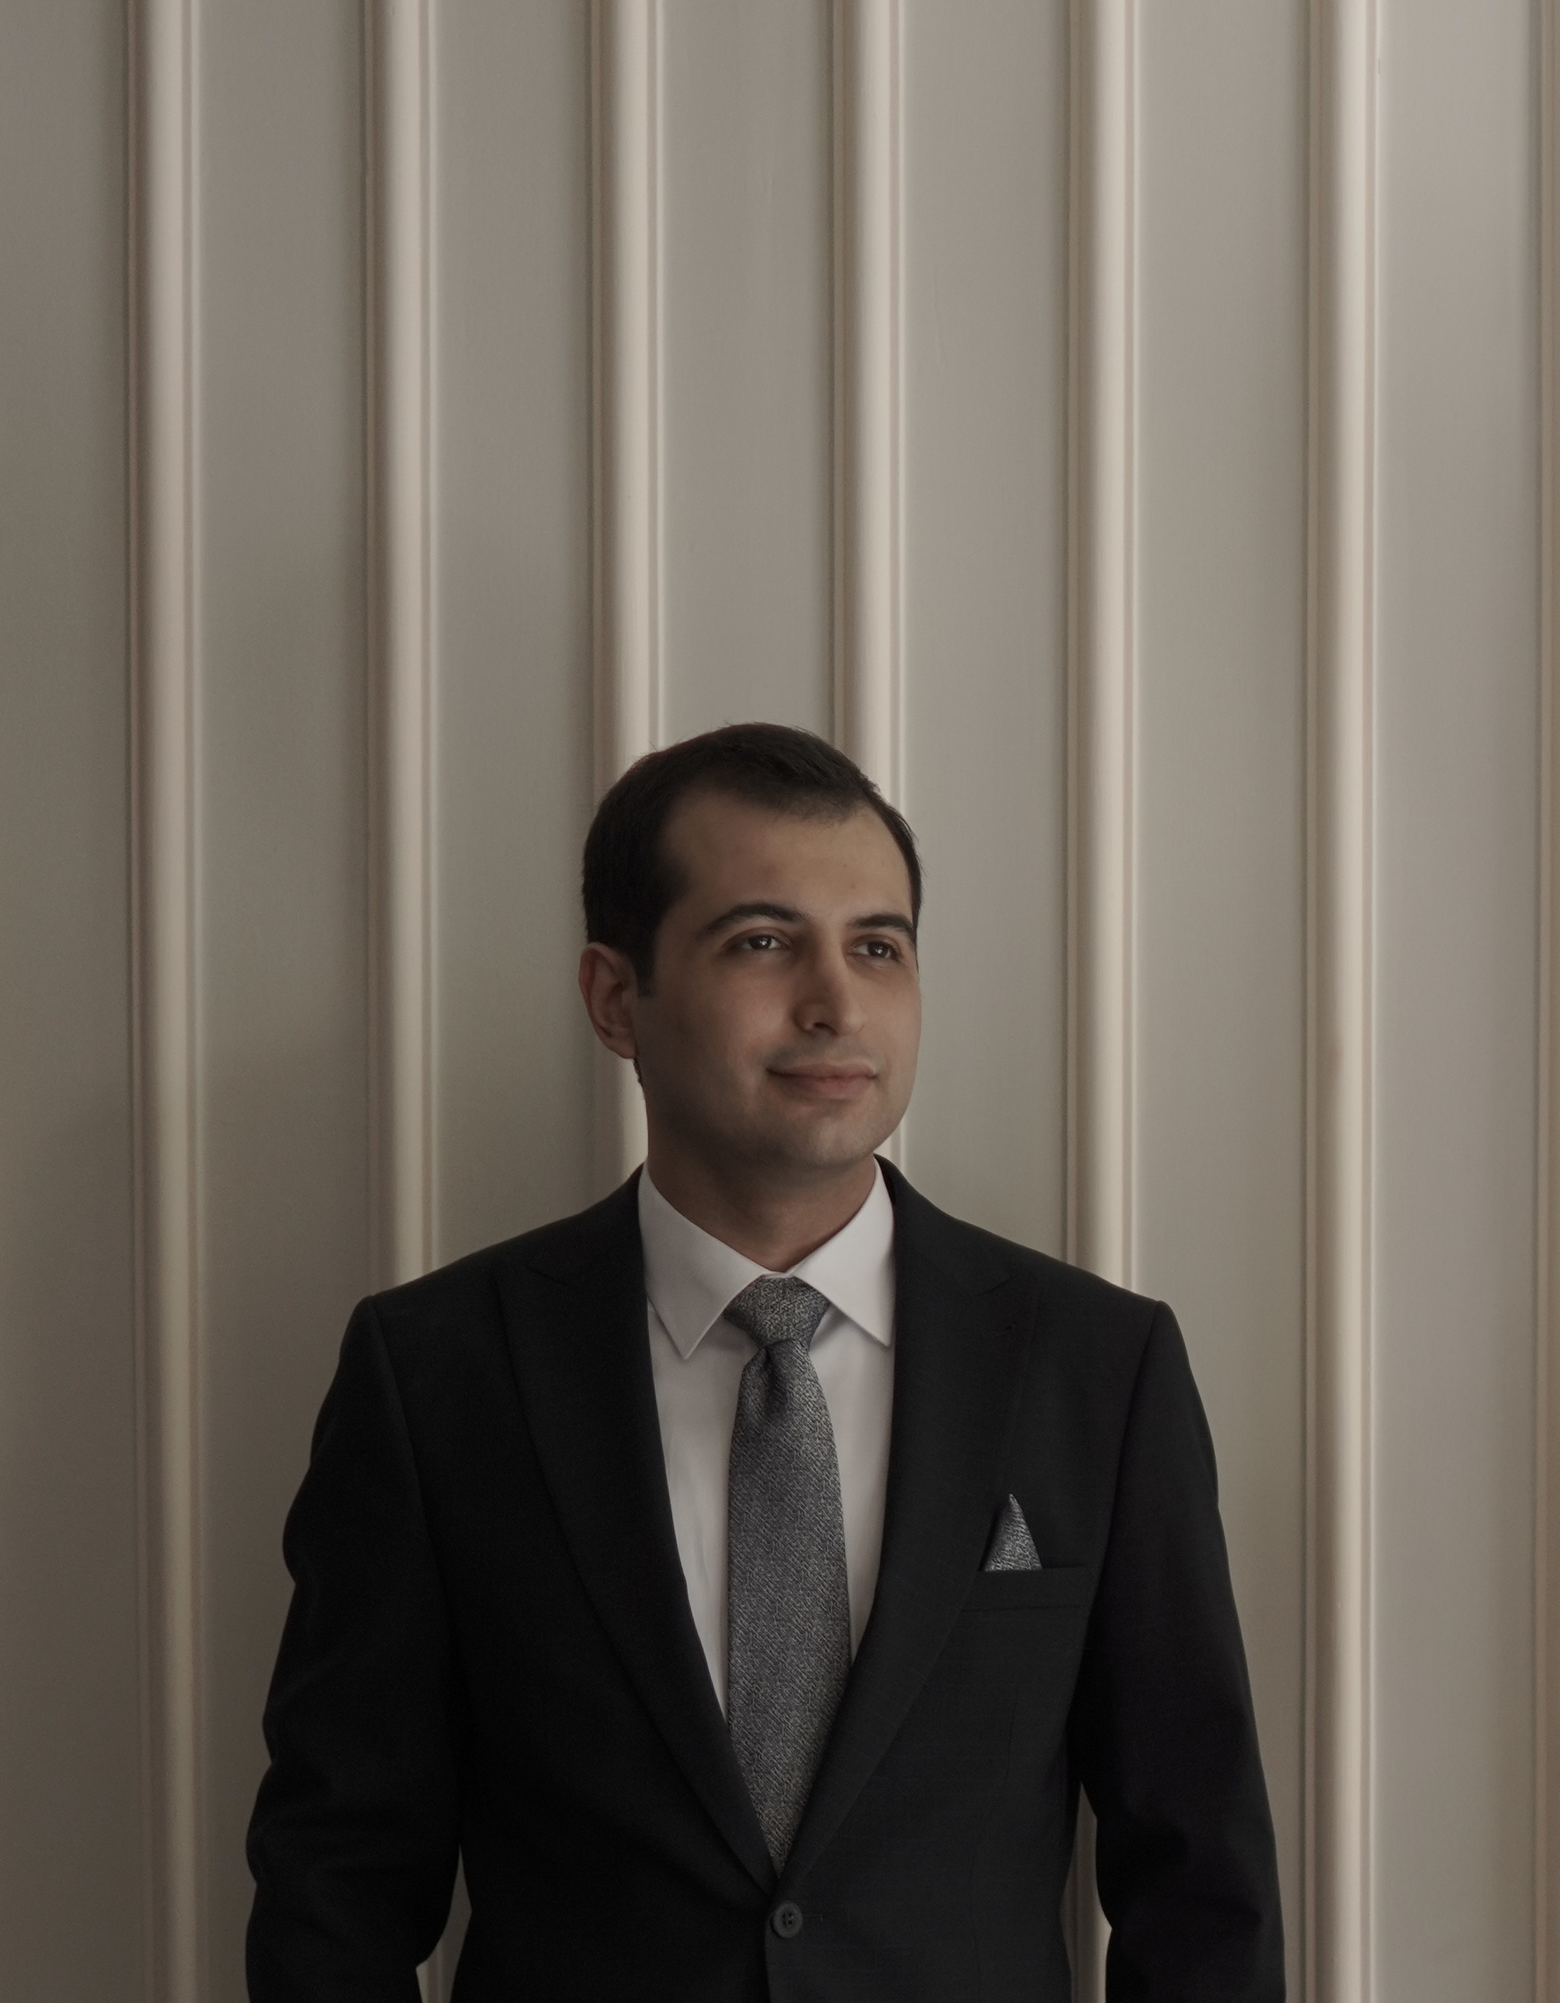
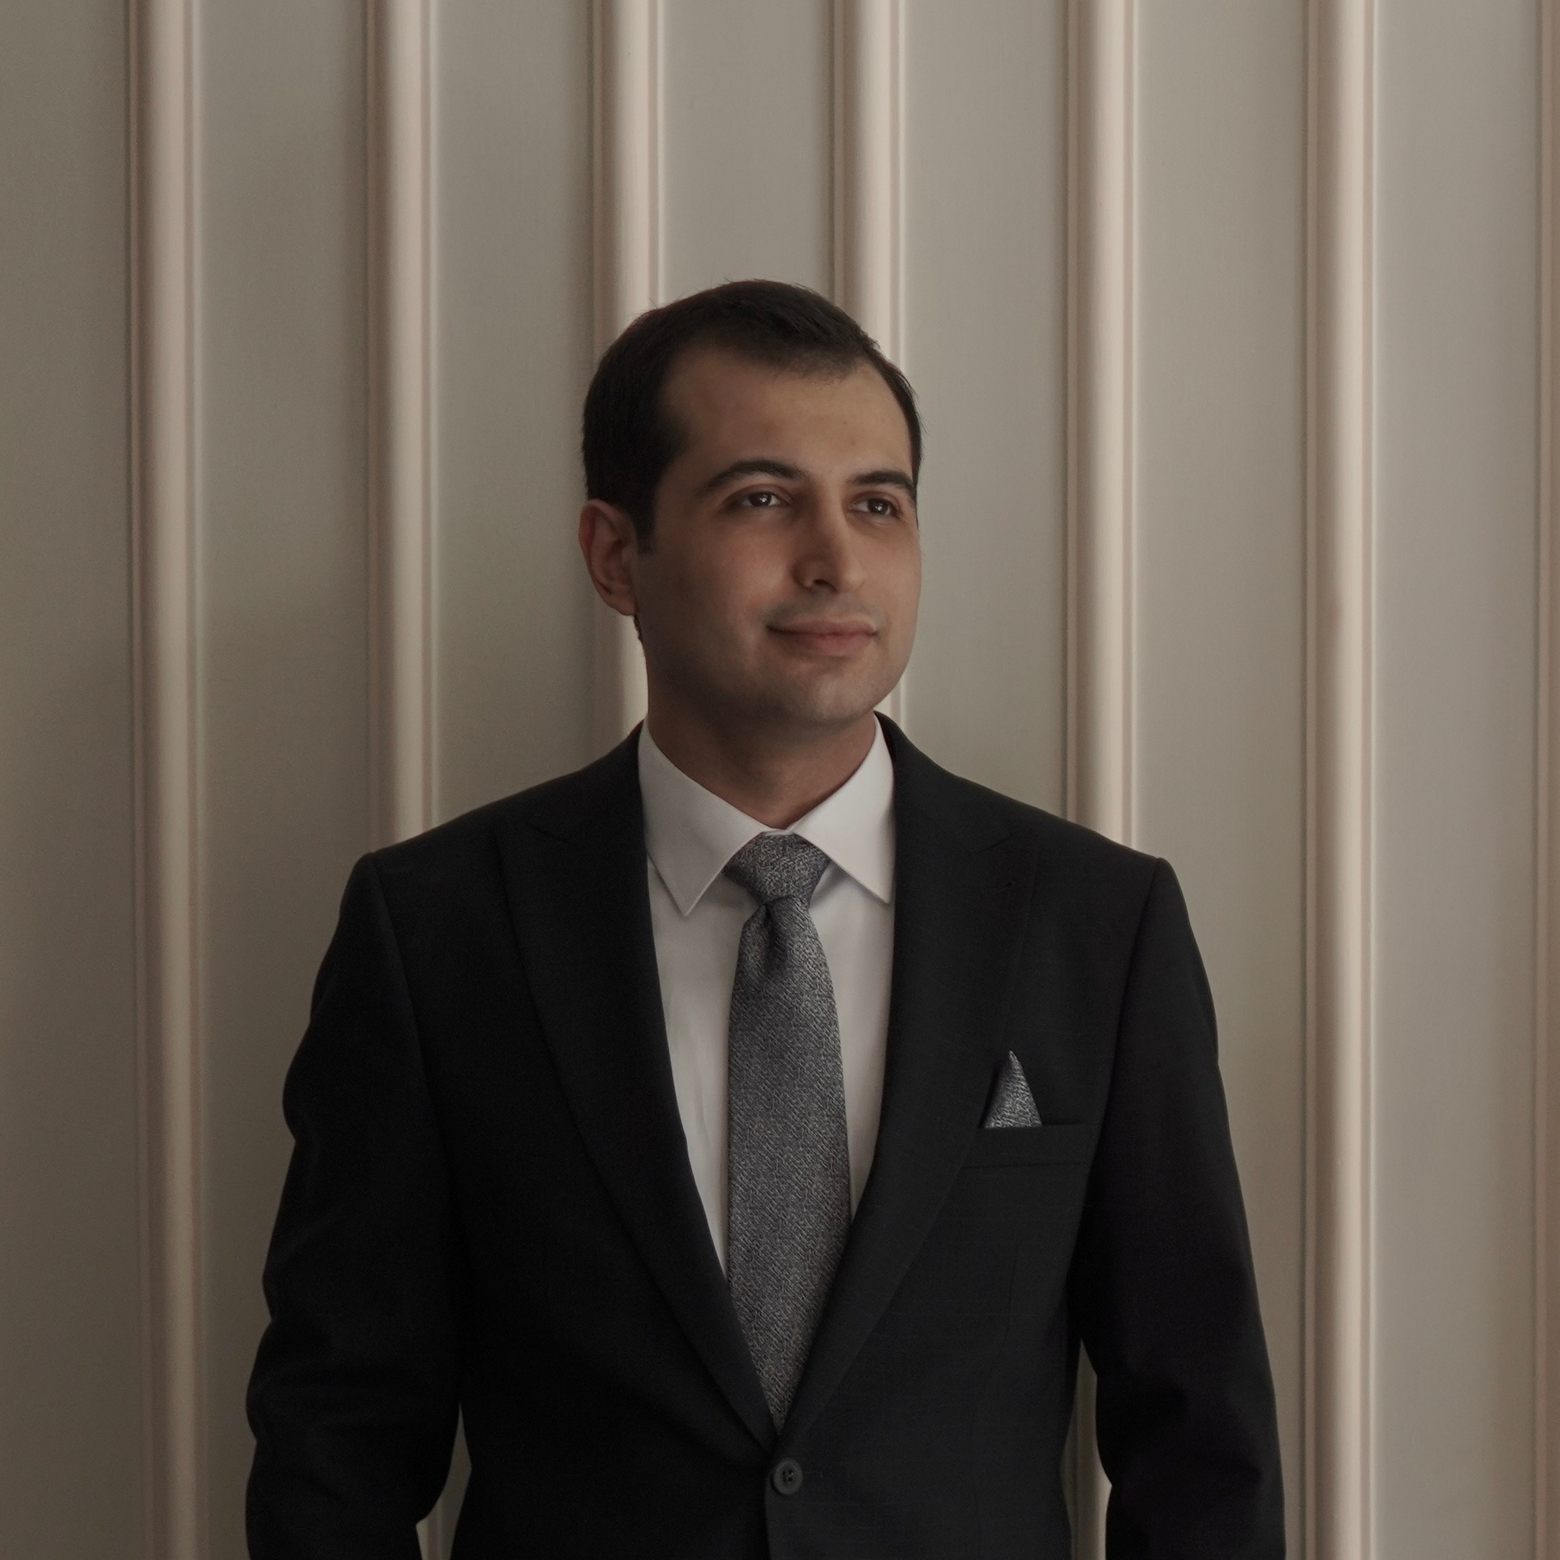
About page updated

diff --git a/manager/templates/manager/cards/sprint34.html b/manager/templates/manager/cards/sprint34.html
@@ -1,16 +1,21 @@
+<style>
+    .color {
+        color: #1e293b;
+    }
+</style>
 {% extends "manager/card-base2.html" %}
 
 {% block card2p1 %}
     <div class="flex flex-wrap gap-2 justify-between items-center">
         <div class="flex items-center gap-2 font-semibold text-gray-900 text-lg">
-            <span class="text-cyan-500">
+            <span class="color">
                 <svg xmlns="http://www.w3.org/2000/svg" class="h-6 w-6" fill="none" viewBox="0 0 24 24"
                      stroke="currentColor" stroke-width="2">
-                    <path stroke-linecap="round" stroke-linejoin="round"
-                          d="M16 7a4 4 0 11-8 0 4 4 0 018 0zM12 14a7 7 0 00-7 7h14a7 7 0 00-7-7z"/>
-                </svg>
+  <path stroke-linecap="round" stroke-linejoin="round"
+        d="M10 21h7a2 2 0 002-2V9.414a1 1 0 00-.293-.707l-5.414-5.414A1 1 0 0012.586 3H7a2 2 0 00-2 2v11m0 5l4.879-4.879m0 0a3 3 0 104.243-4.242 3 3 0 00-4.243 4.242z"/>
+</svg>
             </span>
-            <span >Sprint 3</span>
+            <span class="align-middle text-3xl">Sprint 3</span>
         </div>
     </div>
 
@@ -19,8 +24,13 @@
     <div class="flex flex-col justify-center items-center w-full h-full rounded-lg">
         <ul class="w-full list-inside text-center">
 
-            <li class="py-1 hover:bg-slate-200 text-gray-900 font-bold text-xl">{{ assigned_doctor.first_name }} {{ assigned_doctor.last_name }}</li>
-            <li class="py-0.5 hover:bg-slate-200">Phone number: {{ assigned_doctor.profile.phone_number }}</li>
+            <li class="text-center font-semibold text-2xl pt-1 pb-2">Tasks:</li>
+            <br/><br/>
+            <li class="text-center py-1 text-xl">Profile & Dashboard</li>
+            <br/>
+            <li class="text-center py-1 text-xl">Patient Reports</li>
+            <br/>
+            <li class="text-center py-1 text-xl">Appointments</li>
 
         </ul>
     </div>
@@ -28,14 +38,14 @@
 {% block card2p2 %}
     <div class="flex flex-wrap gap-2 justify-between items-center">
         <div class="flex items-center gap-2 font-semibold text-gray-900 text-lg">
-            <span class="text-cyan-500">
+            <span class="color">
                 <svg xmlns="http://www.w3.org/2000/svg" class="h-6 w-6" fill="none" viewBox="0 0 24 24"
                      stroke="currentColor" stroke-width="2">
-                    <path stroke-linecap="round" stroke-linejoin="round"
-                          d="M16 7a4 4 0 11-8 0 4 4 0 018 0zM12 14a7 7 0 00-7 7h14a7 7 0 00-7-7z"/>
-                </svg>
+  <path stroke-linecap="round" stroke-linejoin="round"
+        d="M10 21h7a2 2 0 002-2V9.414a1 1 0 00-.293-.707l-5.414-5.414A1 1 0 0012.586 3H7a2 2 0 00-2 2v11m0 5l4.879-4.879m0 0a3 3 0 104.243-4.242 3 3 0 00-4.243 4.242z"/>
+</svg>
             </span>
-            <span >Sprint 4</span>
+            <span class="align-middle text-3xl">Sprint 4</span>
         </div>
     </div>
 
@@ -44,8 +54,13 @@
     <div class="flex flex-col justify-center items-center w-full h-full rounded-lg">
         <ul class="w-full list-inside text-center">
 
-            <li class="py-1 hover:bg-slate-200 text-gray-900 font-bold text-xl">{{ assigned_doctor.first_name }} {{ assigned_doctor.last_name }}</li>
-            <li class="py-0.5 hover:bg-slate-200">Phone number: {{ assigned_doctor.profile.phone_number }}</li>
+            <li class="text-center font-semibold text-2xl pt-1 pb-2">Tasks:</li>
+            <br/><br/>
+            <li class="text-center py-1 text-xl">Doctor Management & Quarantine Enforcement</li>
+            <br/>
+            <li class="text-center py-1 text-xl">Contact Tracing & Case Data Management</li>
+            <br/>
+            <li class="text-center py-1 text-xl">Security & Access Control</li>
 
         </ul>
     </div>

diff --git a/manager/templates/manager/cards/sprint12.html b/manager/templates/manager/cards/sprint12.html
@@ -1,16 +1,21 @@
+<style>
+    .color {
+        color: #1e293b;
+    }
+</style>
 {% extends "manager/card-base2.html" %}
 
 {% block card2p1 %}
     <div class="flex flex-wrap gap-2 justify-between items-center">
         <div class="flex items-center gap-2 font-semibold text-gray-900 text-lg">
-            <span class="text-cyan-500">
+            <span class="color">
                 <svg xmlns="http://www.w3.org/2000/svg" class="h-6 w-6" fill="none" viewBox="0 0 24 24"
                      stroke="currentColor" stroke-width="2">
-                    <path stroke-linecap="round" stroke-linejoin="round"
-                          d="M16 7a4 4 0 11-8 0 4 4 0 018 0zM12 14a7 7 0 00-7 7h14a7 7 0 00-7-7z"/>
-                </svg>
+  <path stroke-linecap="round" stroke-linejoin="round"
+        d="M10 21h7a2 2 0 002-2V9.414a1 1 0 00-.293-.707l-5.414-5.414A1 1 0 0012.586 3H7a2 2 0 00-2 2v11m0 5l4.879-4.879m0 0a3 3 0 104.243-4.242 3 3 0 00-4.243 4.242z"/>
+</svg>
             </span>
-            <span >Sprint 1</span>
+            <span class="align-middle text-3xl">Sprint 1</span>
         </div>
     </div>
 
@@ -19,8 +24,13 @@
     <div class="flex flex-col justify-center items-center w-full h-full rounded-lg">
         <ul class="w-full list-inside text-center">
 
-            <li class="py-1 hover:bg-slate-200 text-gray-900 font-bold text-xl">{{ assigned_doctor.first_name }} {{ assigned_doctor.last_name }}</li>
-            <li class="py-0.5 hover:bg-slate-200">Phone number: {{ assigned_doctor.profile.phone_number }}</li>
+            <li class="text-center font-semibold text-2xl pt-1 pb-2">Tasks:</li>
+            <br/><br/>
+            <li class="text-center py-1 text-xl">Software Architectural Document</li>
+            <br/>
+            <li class="text-center py-1 text-xl">Risk Assessment</li>
+            <br/>
+            <li class="text-center py-1 text-xl">Planning</li>
 
         </ul>
     </div>
@@ -28,14 +38,14 @@
 {% block card2p2 %}
     <div class="flex flex-wrap gap-2 justify-between items-center">
         <div class="flex items-center gap-2 font-semibold text-gray-900 text-lg">
-            <span class="text-cyan-500">
+            <span class="color">
                 <svg xmlns="http://www.w3.org/2000/svg" class="h-6 w-6" fill="none" viewBox="0 0 24 24"
                      stroke="currentColor" stroke-width="2">
-                    <path stroke-linecap="round" stroke-linejoin="round"
-                          d="M16 7a4 4 0 11-8 0 4 4 0 018 0zM12 14a7 7 0 00-7 7h14a7 7 0 00-7-7z"/>
-                </svg>
+  <path stroke-linecap="round" stroke-linejoin="round"
+        d="M10 21h7a2 2 0 002-2V9.414a1 1 0 00-.293-.707l-5.414-5.414A1 1 0 0012.586 3H7a2 2 0 00-2 2v11m0 5l4.879-4.879m0 0a3 3 0 104.243-4.242 3 3 0 00-4.243 4.242z"/>
+</svg>
             </span>
-            <span >Sprint 2</span>
+            <span class="align-middle text-3xl">Sprint 2</span>
         </div>
     </div>
 
@@ -44,8 +54,13 @@
     <div class="flex flex-col justify-center items-center w-full h-full rounded-lg">
         <ul class="w-full list-inside text-center">
 
-            <li class="py-1 hover:bg-slate-200 text-gray-900 font-bold text-xl">{{ assigned_doctor.first_name }} {{ assigned_doctor.last_name }}</li>
-            <li class="py-0.5 hover:bg-slate-200">Phone number: {{ assigned_doctor.profile.phone_number }}</li>
+            <li class="text-center font-semibold text-2xl pt-1 pb-2">Tasks:</li>
+            <br/><br/>
+            <li class="text-center py-1 text-xl">Symptom Management</li>
+            <br/>
+            <li class="text-center py-1 text-xl">User Accounts</li>
+            <br/>
+            <li class="text-center py-1 text-xl">Messaging</li>
 
         </ul>
     </div>

diff --git a/manager/templates/manager/cards/soen-squad.html b/manager/templates/manager/cards/soen-squad.html
@@ -1,27 +1,57 @@
+<style>
+    /* unvisited link */
+    a.classic:link {
+        color: red;
+    }
+
+    /* visited link */
+    a.classic:visited {
+        color: green;
+    }
+
+    /* mouse over link */
+    a.classic:hover {
+        color: hotpink;
+    }
+
+    /* selected link */
+    a.classic:active {
+        color: blue;
+    }
+
+    .color {
+        color: #1e293b;
+    }
+</style>
 {% extends "manager/card-base1.html" %}
 
 {% block card1 %}
     <div class="flex flex-wrap gap-2 justify-between items-center">
         <div class="flex items-center gap-2 font-semibold text-gray-900 text-lg">
-            <span class="text-cyan-500">
-                <svg xmlns="http://www.w3.org/2000/svg" class="h-6 w-6" fill="none" viewBox="0 0 24 24"
-                     stroke="currentColor" stroke-width="2">
-                    <path stroke-linecap="round" stroke-linejoin="round"
-                          d="M16 7a4 4 0 11-8 0 4 4 0 018 0zM12 14a7 7 0 00-7 7h14a7 7 0 00-7-7z"/>
-                </svg>
+            <span class="color">
+                <svg xmlns="http://www.w3.org/2000/svg" class="h-6 w-6" fill="none" viewBox="0 0 24 24" stroke="currentColor" stroke-width="2">
+  <path stroke-linecap="round" stroke-linejoin="round" d="M17 20h5v-2a3 3 0 00-5.356-1.857M17 20H7m10 0v-2c0-.656-.126-1.283-.356-1.857M7 20H2v-2a3 3 0 015.356-1.857M7 20v-2c0-.656.126-1.283.356-1.857m0 0a5.002 5.002 0 019.288 0M15 7a3 3 0 11-6 0 3 3 0 016 0zm6 3a2 2 0 11-4 0 2 2 0 014 0zM7 10a2 2 0 11-4 0 2 2 0 014 0z" />
+</svg>
             </span>
-            <span >Soen Squad</span>
+            <span class="align-middle text-3xl">Soen Squad</span>
         </div>
     </div>
 
     <hr class="border-slate-400 mx-1 my-2">
 
-    <div class="flex flex-col justify-center items-center w-full h-full rounded-lg">
-        <ul class="w-full list-inside text-center">
+    <div class="flex items-center justify-center m-4 h-full flex-wrap">
 
-            <li class="py-1 hover:bg-slate-200 text-gray-900 font-bold text-xl">{{ assigned_doctor.first_name }} {{ assigned_doctor.last_name }}</li>
-            <li class="py-0.5 hover:bg-slate-200">Phone number: {{ assigned_doctor.profile.phone_number }}</li>
-
-        </ul>
+        <div class="text-xl flex flex-col justify-center w-full h-full">
+            <span class="text-center font-semibold text-2xl pt-1 pb-2"> "The app that connects patients and doctors in this new digital era." </span>
+            <span class="text-center py-1">We followed the <a class="classic"
+                                                              href=https://designjustice.org/read-the-principles>Design
+                Justice Network Principles</a>,
+                especially Design 5 which states that "We see the role of the designer as a facilitator rather than an
+                expert."</span><br/>
+            <span class="text-center font-semibold text-2xl pt-1 pb-2">Members:</span>
+            <span class="text-center py-1">Shuaib Rauph &nbsp&nbsp Amir Sadeghi &nbsp&nbsp Auvigoo Ahmed &nbsp&nbsp Justin Klein &nbsp&nbsp Mohamed
+                Amine Ahmadi &nbsp&nbsp Nizar El Jurdi &nbsp&nbsp Aseel Meeran Babu Hussain &nbsp&nbsp Isaac Muruiki
+                &nbsp&nbsp Shahd Yousef.</span>
+        </div>
     </div>
 {% endblock %}

diff --git a/manager/templates/manager/cards/amir.html b/manager/templates/manager/cards/amir.html
@@ -1,10 +1,48 @@
-<!DOCTYPE html>
-<html lang="en">
-<head>
-    <meta charset="UTF-8">
-    <title>Title</title>
-</head>
-<body>
+<style>
+    .img {
+        width: 22rem;
+        height: 22rem;
+    }
+</style>
 
-</body>
-</html>
+{% extends "manager/card-base4.html" %}
+{% load static %}
+
+{% block portrait %}
+    <div class="flex justify-center items-center">
+        <div class="img image object-fill">
+            <img class="img rounded-lg shadow" src="{% static 'manager/Amir Sadeghi.jpg' %}" alt=""/>
+        </div>
+    </div>
+{% endblock %}
+{% block profile %}
+    <div class="flex flex-wrap gap-2 justify-between items-center">
+        <div class="flex items-center gap-2 font-semibold text-gray-900 text-lg">
+            <span class="text-red-500">
+                <svg xmlns="http://www.w3.org/2000/svg" class="h-8 w-8" fill="none" viewBox="0 0 24 24"
+                     stroke="currentColor" stroke-width="2">
+  <path stroke-linecap="round" stroke-linejoin="round"
+        d="M16 7a4 4 0 11-8 0 4 4 0 018 0zM12 14a7 7 0 00-7 7h14a7 7 0 00-7-7z"/>
+</svg>
+            </span>
+            <span class="align-middle text-3xl">Amir Sadeghi</span>
+        </div>
+    </div>
+
+    <hr class="border-slate-400 mx-1 my-2">
+
+    <div class="flex items-center justify-center m-4 h-full flex-wrap">
+            <div class="text-xl flex flex-col justify-center w-1/2 h-full">
+            <span class="text-center font-semibold text-2xl pt-1 pb-2"> Contribution Highlights: </span>
+            <span class="text-center py-1"> Software Architectural Document </span>
+            <span class="text-center py-1"> Messaging </span>
+            <span class="text-center py-1"> Patient Reports </span>
+            <span class="text-center py-1"> Location tracking & auto doctor assignment</span>
+
+        </div>
+
+        <div class="text-xl flex flex-col items-center justify-center w-1/2 h-full text-3xl">
+          <p class="quote"><em> "Fake it till you make it." </em></p>
+        </div>
+    </div>
+{% endblock %}

diff --git a/manager/templates/manager/cards/shuaib.html b/manager/templates/manager/cards/shuaib.html
@@ -19,7 +19,7 @@
 {% block portrait %}
     <div class="flex justify-center items-center">
         <div class="img image object-fill">
-            <img class="img rounded-lg shadow" src="{% static 'manager/Avg.jpg' %}" alt=""/>
+            <img class="img rounded-lg shadow" src="{% static 'manager/CHONQ.jpg' %}" alt=""/>
         </div>
     </div>
 {% endblock %}
@@ -33,7 +33,7 @@
                         d="M16 7a4 4 0 11-8 0 4 4 0 018 0zM12 14a7 7 0 00-7 7h14a7 7 0 00-7-7z"/>
                 </svg>
             </span>
-            <span class="align-middle text-3xl">Auvigoo Ahmed</span>
+            <span class="align-middle text-3xl">Shuaib Rauph</span>
         </div>
     </div>
 
@@ -41,14 +41,14 @@
 
     <div class="flex items-center justify-center m-4 h-full flex-wrap">
         <div class="text-xl flex flex-col items-center justify-center w-1/2 h-full text-3xl">
-          <p class="quote"><em> “This task doesn’t seem too complicated, I’ll get it done quickly.” </em></p>
+          <p class="quote"><em> "I should get it done by tomorrow I hope, I'll be fine." </em></p>
         </div>
         <div class="text-xl flex flex-col justify-center w-1/2 h-full">
             <span class="text-center font-semibold text-2xl pt-1 pb-2"> Contribution Highlights: </span>
-            <span class="text-center py-1"> Software Architectural Document </span>
-            <span class="text-center py-1"> Messaging </span>
-            <span class="text-center py-1"> Appointments </span>
-            <span class="text-center py-1"> Notifications </span>
+            <span class="text-center py-1"> Planning </span>
+            <span class="text-center py-1"> User Accounts </span>
+            <span class="text-center py-1"> Dashboard </span>
+            <span class="text-center py-1"> Access Control & Case Dashboard </span>
 
         </div>
     </div>

diff --git a/manager/templates/manager/card-base4.html b/manager/templates/manager/card-base4.html
@@ -1,16 +1,14 @@
-<div class="w-full flex flex-wrap h-96">
-    <div class="w-2/3 h-full flex flex-col p-4 group rounded-lg bg-white shadow">
-        {% block profile %}
-            {{ content }}
-        {% endblock %}
-    </div>
-
-
-    <div class="w-1/3 pl-4">
+<div class="w-full flex flex-wrap h-96 gap-4">
+    <div class="grow">
         <div class="w-full h-full flex flex-col p-4 group rounded-lg bg-white shadow">
-            {% block portrait %}
+            {% block profile %}
                 {{ content }}
             {% endblock %}
         </div>
+    </div>
+    <div class="xl:w-96 h-full flex justify-center items-center group rounded-lg bg-white shadow w-full">
+        {% block portrait %}
+            {{ content }}
+        {% endblock %}
     </div>
 </div>

diff --git a/manager/templates/manager/card-base3.html b/manager/templates/manager/card-base3.html
@@ -1,12 +1,10 @@
-<div class="w-full flex flex-wrap h-96">
-    <div class="w-1/3 h-full flex flex-col p-4 group rounded-lg bg-white shadow">
+<div class="w-full flex flex-wrap h-96 gap-4">
+    <div class="xl:w-96 h-full flex justify-center items-center group rounded-lg bg-white shadow w-full">
         {% block portrait %}
             {{ content }}
         {% endblock %}
     </div>
-
-
-    <div class="w-2/3 pl-4">
+    <div class="grow">
         <div class="w-full h-full flex flex-col p-4 group rounded-lg bg-white shadow">
             {% block profile %}
                 {{ content }}

diff --git a/manager/templates/manager/about.html b/manager/templates/manager/about.html
@@ -6,11 +6,13 @@
             <h1 class="text-2xl text-white font-semibold px-8 py-4">About</h1>
         </div>
 
-        <div class="flex flex-wrap justify-center md:justify-start gap-4 p-8">
+        <div class="flex flex-col gap-4 p-8">
             {% include './cards/soen-squad.html' %}
             {% include './cards/sprint12.html' %}
             {% include './cards/sprint34.html' %}
             {% include './cards/shuaib.html' %}
+            {% include './cards/amir.html' %}
+            {% include './cards/auvigo.html' %}
 
         </div>
     </div>
